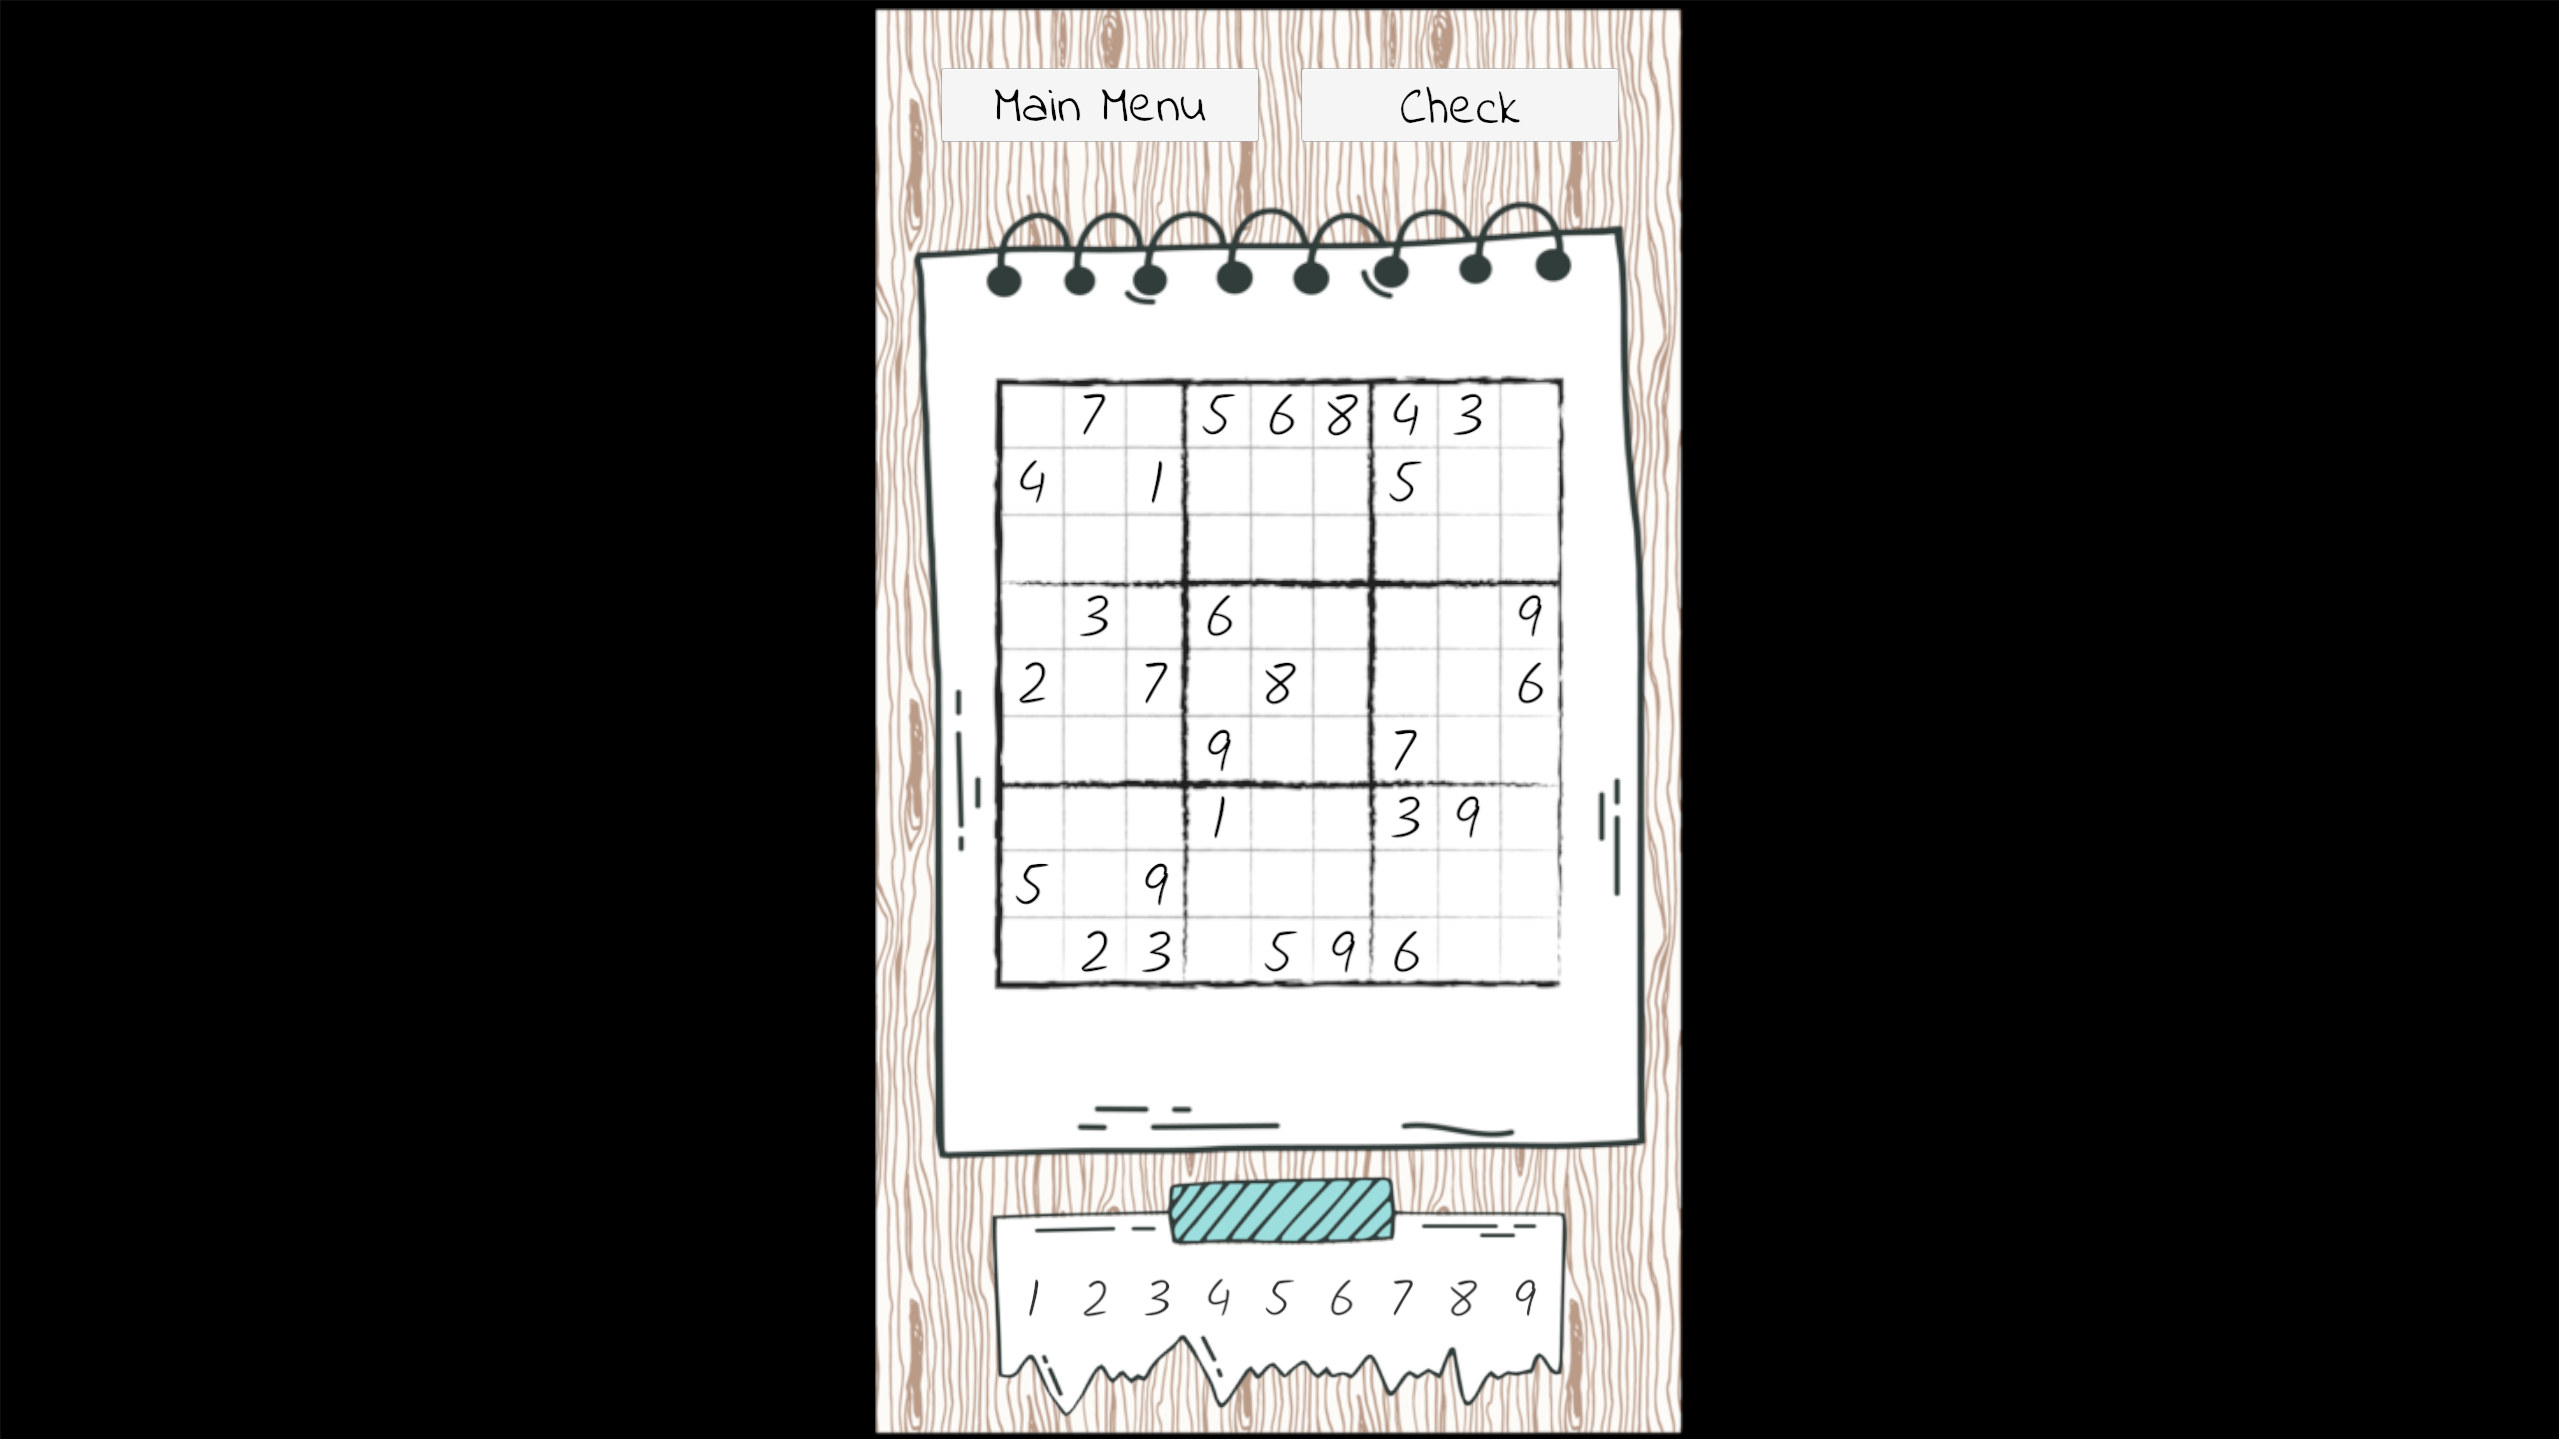
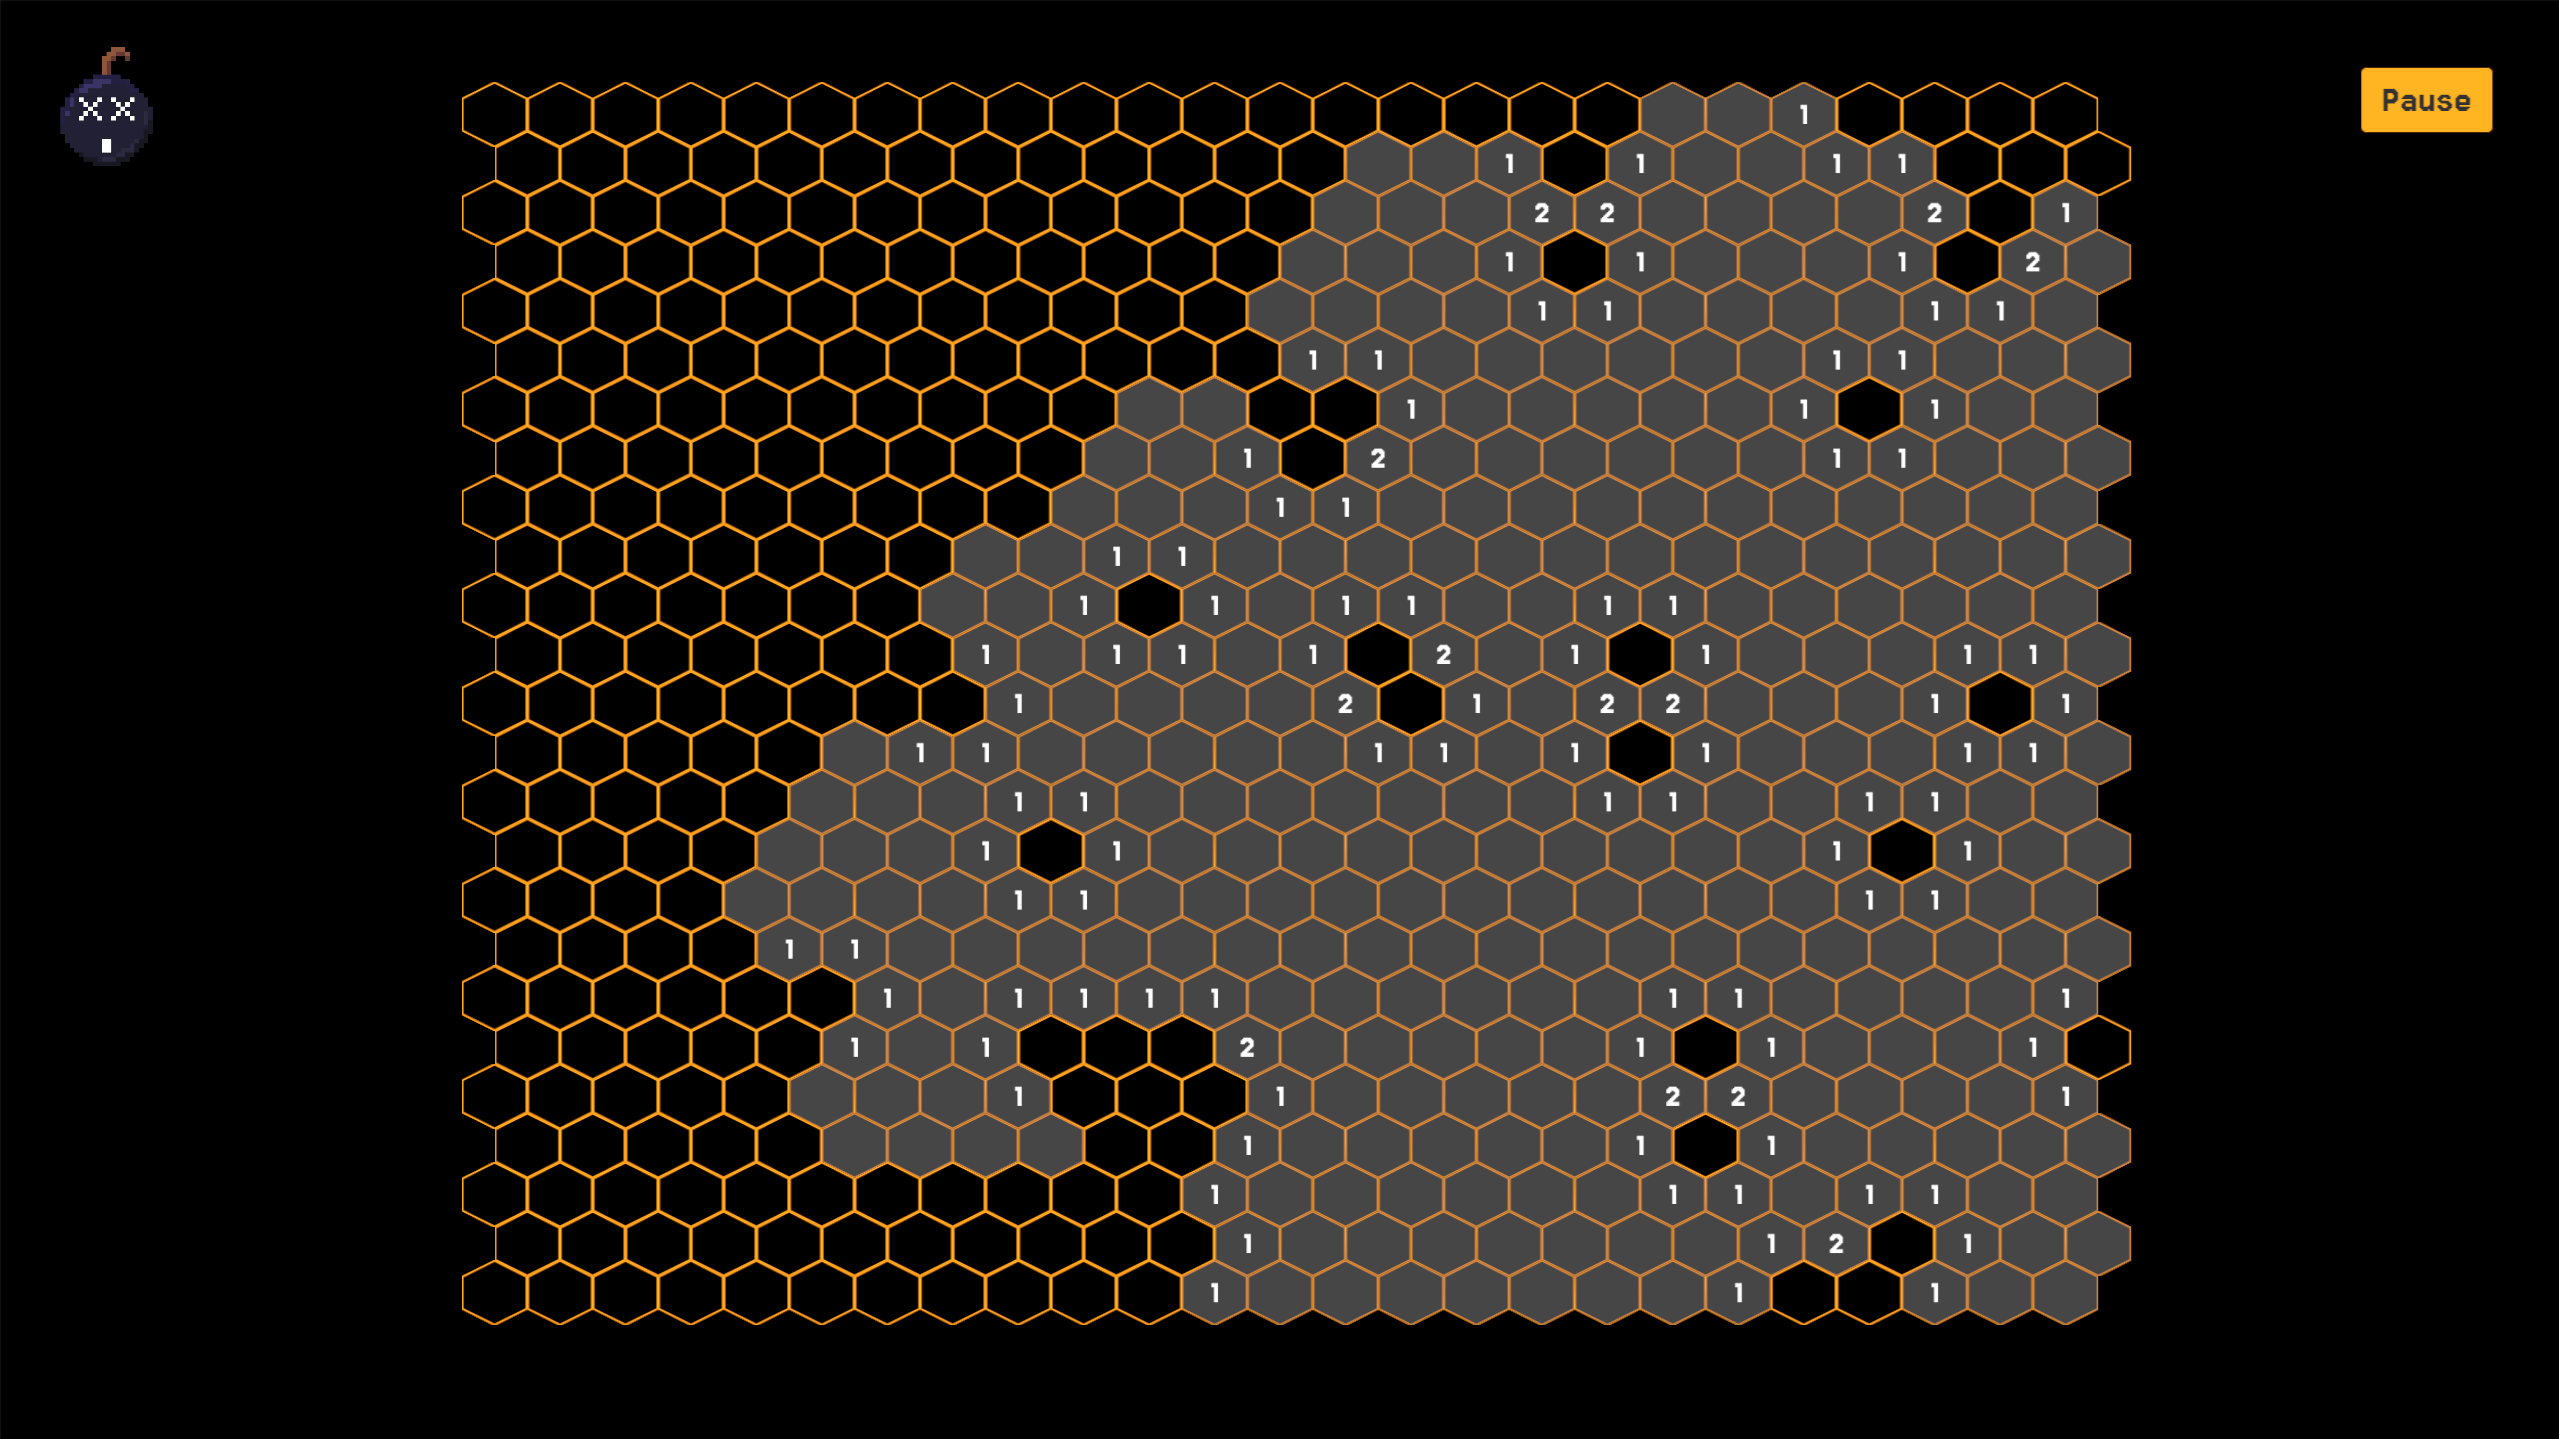
Add new project

diff --git a/index.html b/index.html
@@ -140,6 +140,17 @@
       <div class="projects-container">
         <div class="project-card">
           <img src="project1.png" alt="">
+          <h3>Saucer-Like</h3>
+          <p>Lorem ipsum, dolor sit amet consectetur adipisicing elit. 
+              Facere explicabo similique ad nihil iusto libero beatae debitis fuga facilis nesciunt repudiandae, 
+              distinctio, deserunt, pariatur maiores modi dolorum? Harum, facere excepturi.
+          </p>
+          <button class="btn">
+            <a href="https://store.steampowered.com/app/602590/SaucerLike">Steam</a>
+          </button>
+        </div>
+        <div class="project-card">
+          <img src="project2.png" alt="">
           <h3>Minesweeper</h3>
           <p>Lorem ipsum, dolor sit amet consectetur adipisicing elit. 
               Facere explicabo similique ad nihil iusto libero beatae debitis fuga facilis nesciunt repudiandae, 
@@ -150,7 +161,7 @@
           </button>
         </div>
         <div class="project-card">
-          <img src="project2.png" alt="">
+          <img src="project3.png" alt="">
           <h3>Sudoku</h3>
           <p>Lorem ipsum, dolor sit amet consectetur adipisicing elit. 
               Facere explicabo similique ad nihil iusto libero beatae debitis fuga facilis nesciunt repudiandae, 

diff --git a/indexspanish.html b/indexspanish.html
@@ -140,6 +140,17 @@
       <div class="projects-container">
         <div class="project-card">
           <img src="project1.png" alt="">
+          <h3>Saucer-Like</h3>
+          <p>Lorem ipsum, dolor sit amet consectetur adipisicing elit. 
+              Facere explicabo similique ad nihil iusto libero beatae debitis fuga facilis nesciunt repudiandae, 
+              distinctio, deserunt, pariatur maiores modi dolorum? Harum, facere excepturi.
+          </p>
+          <button class="btn">
+            <a href="https://store.steampowered.com/app/602590/SaucerLike">Steam</a>
+          </button>
+        </div>
+        <div class="project-card">
+          <img src="project2.png" alt="">
           <h3>Buscaminas</h3>
           <p>Lorem ipsum, dolor sit amet consectetur adipisicing elit. 
               Facere explicabo similique ad nihil iusto libero beatae debitis fuga facilis nesciunt repudiandae, 
@@ -150,7 +161,7 @@
           </button>
         </div>
         <div class="project-card">
-          <img src="project2.png" alt="">
+          <img src="project3.png" alt="">
           <h3>Sudoku</h3>
           <p>Lorem ipsum, dolor sit amet consectetur adipisicing elit. 
               Facere explicabo similique ad nihil iusto libero beatae debitis fuga facilis nesciunt repudiandae, 
